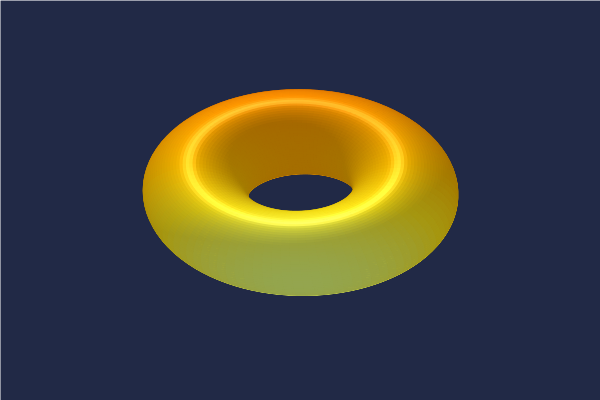
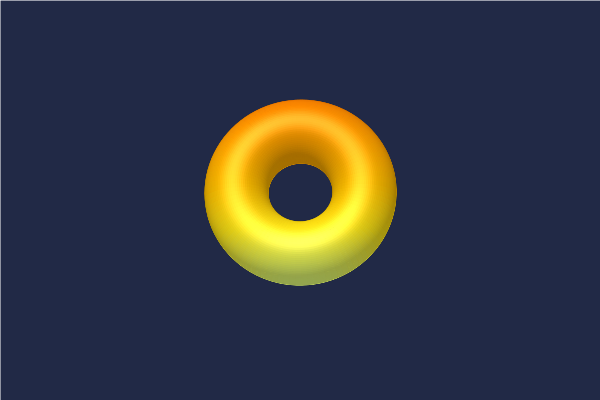
Deploying to master from  @ 984f3977fe52f0a3c2e34ddfdb57993fabd93bd5 🚀

Changed region(s): [[0.24, 0.21, 0.78, 0.75]]

diff --git a/menu2/index.html b/menu2/index.html
@@ -1,7 +1,7 @@
 <!doctype html> <!-- Minimal Mistakes Jekyll Theme 4.16.4 by Michael Rose Copyright 2013-2019 Michael Rose - mademistakes.com | @mmistakes Free for personal and commercial use under the MIT license https://github.com/mmistakes/minimal-mistakes/blob/master/LICENSE --> <html lang=en > <meta charset=UTF-8 > <meta name=viewport  content="width=device-width, initial-scale=1"> <link rel=stylesheet  href="/gnuplot-examples/libs/katex/katex.min.css"> <link rel=stylesheet  href="/gnuplot-examples/libs/highlight/github.min.css"> <link rel=stylesheet  href="/gnuplot-examples/css/franklin.css"> <link rel=stylesheet  href="/gnuplot-examples/css/minimal-mistakes.css"> <link rel=stylesheet  href="/gnuplot-examples/css/adjust.css"> <!--[if IE ]> <style> /* old IE unsupported flexbox fixes */ .greedy-nav .site-title { padding-right: 3em; } .greedy-nav button { position: absolute; top: 0; right: 0; height: 100%; } </style> <![endif]--> <link rel=icon  href="/gnuplot-examples/assets/favicon.png"> <title>3d plots</title> <body class=layout--single > <div class=masthead > <div class=masthead__inner-wrap > <div class=masthead__menu > <nav id=site-nav  class=greedy-nav > <a class=site-title  href="/gnuplot-examples/">@gp & @gsp</a> <ul class=visible-links > <li class=masthead__menu-item ><a href="/gnuplot-examples/gallery/" >Gallery</a> <li class=masthead__menu-item ><a href="/gnuplot-examples/menu1/" >2D plots</a> <li class=masthead__menu-item ><a href="/gnuplot-examples/menu2/" >3D plots</a> <li class=masthead__menu-item ><a href="/gnuplot-examples/menu3/">Feature</a> </ul> <button class="greedy-nav__toggle hidden" type=button > <span class=visually-hidden >Toggle menu</span> <div class=navicon ></div> </button> <ul class="hidden-links hidden"></ul> </nav> </div> </div> </div> <div class=initial-content > <div id=main  role=main > <div class="sidebar sticky"> <div itemscope itemtype="https://schema.org/Person"> <!-- <div class=author__avatar > <img src="/gnuplot-examples/assets/minimal-mistakes/zenobia.png" alt="Septimia Zenobia" itemprop=image > </div> --> <!-- <div class=author__content > <h3 class=author__name  itemprop=name >Lazaro Alonso</h3> <p class=author__bio  itemprop=description >Probably not a commoner.</p> </div> --> <div class=author__urls-wrapper > <button class="btn btn--inverse">Follow</button> <ul class="author__urls social-icons"> <!-- <li itemprop=homeLocation  itemscope itemtype="https://schema.org/Place"> <i class="fas fa-fw fa-map-marker-alt" aria-hidden=true ></i> <span itemprop=name >Tierra</span> --> <li><a href="https://twitter.com/LazarusAlon" rel="nofollow noopener noreferrer"><i class="fab fa-fw fa-twitter-square" aria-hidden=true ></i> Twitter</a> <li><a href="https://github.com/gcalderone/Gnuplot.jl" rel="nofollow noopener noreferrer"><i class="fab fa-fw fa-github" aria-hidden=true ></i> GitHub</a> <a class=up-arrow  href="" data-toggle=tooltip  title="TO TOP"> <i class="fa fa-angle-double-up" style="font-size:36px;color:black" ></i> </a> </ul> </div> </div> </div> <div class=franklin-content > <div class=franklin-toc ><ol><li><a href="#basic_plot_from_data">Basic plot from data</a><li><a href="#3d_from_a_function_wire_and_surface_plots">3D from a function, wire and surface plots</a><li><a href="#countour_plot">Countour plot</a><li><a href="#lorenz_attractor">Lorenz attractor</a><li><a href="#heat_map">Heat map</a><li><a href="#tubes">Tubes</a><li><a href="#spheres">Spheres</a><li><a href="#torus">Torus</a></ol></div> </p> <h2 id=basic_plot_from_data ><a href="#basic_plot_from_data">Basic plot from data</a></h2> <pre><code class="julia hljs"><span class=hljs-keyword >using</span> Gnuplot
 x, y = [<span class=hljs-number >0</span>,<span class=hljs-number >1</span>,<span class=hljs-number >2</span>], [<span class=hljs-number >0</span>,<span class=hljs-number >1</span>,<span class=hljs-number >2</span>]
 Z = [<span class=hljs-number >10</span> <span class=hljs-number >10</span> <span class=hljs-number >10</span>; <span class=hljs-number >10</span> <span class=hljs-number >3</span> <span class=hljs-number >10</span>; <span class=hljs-number >10</span> <span class=hljs-number >2</span> <span class=hljs-number >10</span>]
-<span class=hljs-meta >@gsp</span> x y Z <span class=hljs-string >"w l lc 'red'"</span></code></pre> <img src="/gnuplot-examples/assets/menu2/code/plt3d_ex1.png" alt=""> <p>More options <pre><code class="julia hljs"><span class=hljs-keyword >using</span> Gnuplot
+<span class=hljs-meta >@gsp</span> x y Z <span class=hljs-string >"w l lc 'red'"</span> <span class=hljs-string >"set view equal xyz"</span></code></pre> <img src="/gnuplot-examples/assets/menu2/code/plt3d_ex1.png" alt=""> <p>More options <pre><code class="julia hljs"><span class=hljs-keyword >using</span> Gnuplot
 <span class=hljs-meta >@gsp</span> <span class=hljs-string >"unset key"</span> <span class=hljs-string >"set multi layout 2,2 title 'Multiplot title'"</span> :-
 <span class=hljs-meta >@gsp</span> :- <span class=hljs-number >1</span> x y Z <span class=hljs-string >"w linespoints pt 4 ps 2"</span> <span class=hljs-string >"set view 55, 65"</span> :-
 <span class=hljs-meta >@gsp</span> :- <span class=hljs-number >2</span> x y Z <span class=hljs-string >"w points pt 3 ps 3"</span> <span class=hljs-string >"set view 55, 65"</span> :-
@@ -60,7 +60,7 @@ x = [(<span class=hljs-number >1</span>-<span class=hljs-number >0.1</span>*cos(
 y = [(<span class=hljs-number >1</span>-<span class=hljs-number >0.1</span>*cos(v))*sin(u) <span class=hljs-keyword >for</span> u <span class=hljs-keyword >in</span> U, v <span class=hljs-keyword >in</span> V]
 z = [<span class=hljs-number >0.1</span>*(sin(v) + u/<span class=hljs-number >1.7</span> - <span class=hljs-number >10</span>) <span class=hljs-keyword >for</span> u <span class=hljs-keyword >in</span> U, v <span class=hljs-keyword >in</span> V]
 <span class=hljs-meta >@gsp</span> <span class=hljs-string >"set pm3d depthorder"</span> :-
-<span class=hljs-meta >@gsp</span> :- <span class=hljs-string >"set style fill transparent solid 0.7"</span>
+<span class=hljs-meta >@gsp</span> :- <span class=hljs-string >"set style fill transparent solid 0.7"</span> <span class=hljs-string >"set view equal xyz"</span>
 <span class=hljs-meta >@gsp</span> :- x y z <span class=hljs-string >"w pm3d notit"</span> <span class=hljs-string >"set xyplane -0.05"</span> palette(:ice)</code></pre> <img src="/gnuplot-examples/assets/menu2/code/tubes2.png" alt=""> <h2 id=spheres ><a href="#spheres">Spheres</a></h2> <pre><code class="julia hljs"><span class=hljs-keyword >using</span> Gnuplot
 Θ = LinRange(<span class=hljs-number >0</span>, <span class=hljs-number >2</span><span class=hljs-literal >π</span>, <span class=hljs-number >100</span>) <span class=hljs-comment ># 50</span>
 Φ = LinRange(<span class=hljs-number >0</span>, <span class=hljs-literal >π</span>, <span class=hljs-number >20</span>)
@@ -69,7 +69,7 @@ x = [r * cos(θ) * sin(ϕ)      <span class=hljs-keyword >for</span> θ <span cl
 y = [r * sin(θ) * sin(ϕ)      <span class=hljs-keyword >for</span> θ <span class=hljs-keyword >in</span> Θ, ϕ <span class=hljs-keyword >in</span> Φ]
 z = [r * cos(ϕ) <span class=hljs-keyword >for</span> θ <span class=hljs-keyword >in</span> Θ, ϕ <span class=hljs-keyword >in</span> Φ]
 <span class=hljs-meta >@gsp</span> <span class=hljs-string >"set pm3d depthorder"</span> :-
-<span class=hljs-meta >@gsp</span> :- x y z <span class=hljs-string >"w l"</span></code></pre> <img src="/gnuplot-examples/assets/menu2/code/sphere1.png" alt=""> <pre><code class="julia hljs"><span class=hljs-keyword >using</span> Gnuplot
+<span class=hljs-meta >@gsp</span> :- x y z <span class=hljs-string >"w l"</span> <span class=hljs-string >"set view equal xyz"</span></code></pre> <img src="/gnuplot-examples/assets/menu2/code/sphere1.png" alt=""> <pre><code class="julia hljs"><span class=hljs-keyword >using</span> Gnuplot
 Θ = LinRange(<span class=hljs-number >0</span>, <span class=hljs-number >2</span><span class=hljs-literal >π</span>, <span class=hljs-number >100</span>) <span class=hljs-comment ># 50</span>
 Φ = LinRange(<span class=hljs-number >0</span>, <span class=hljs-literal >π</span>, <span class=hljs-number >20</span>)
 r = <span class=hljs-number >0.8</span>
@@ -77,7 +77,7 @@ x = [r * cos(θ) * sin(ϕ)      <span class=hljs-keyword >for</span> θ <span cl
 y = [r * sin(θ) * sin(ϕ)      <span class=hljs-keyword >for</span> θ <span class=hljs-keyword >in</span> Θ, ϕ <span class=hljs-keyword >in</span> Φ]
 z = [r * cos(ϕ) <span class=hljs-keyword >for</span> θ <span class=hljs-keyword >in</span> Θ, ϕ <span class=hljs-keyword >in</span> Φ]
 <span class=hljs-meta >@gsp</span> <span class=hljs-string >"set pm3d depthorder"</span> :-
-<span class=hljs-meta >@gsp</span> :- <span class=hljs-string >"set style fill transparent solid 0.5"</span>
+<span class=hljs-meta >@gsp</span> :- <span class=hljs-string >"set style fill transparent solid 0.5"</span> <span class=hljs-string >"set view equal xyz"</span>
 <span class=hljs-meta >@gsp</span> :-  x y z <span class=hljs-string >"w pm3d notit"</span> <span class=hljs-string >"set xyplane 0"</span> palette(:viridis)</code></pre> <img src="/gnuplot-examples/assets/menu2/code/sphere2.png" alt=""> <pre><code class="julia hljs"><span class=hljs-keyword >using</span> Gnuplot
 Θ = LinRange(<span class=hljs-number >0</span>, <span class=hljs-number >2</span><span class=hljs-literal >π</span>, <span class=hljs-number >100</span>) <span class=hljs-comment ># 50</span>
 Φ = LinRange(<span class=hljs-number >0</span>, <span class=hljs-literal >π</span>, <span class=hljs-number >100</span>)
@@ -86,7 +86,7 @@ x = [r * cos(θ) * sin(ϕ) <span class=hljs-keyword >for</span> θ <span class=h
 y = [r * sin(θ) * sin(ϕ) <span class=hljs-keyword >for</span> θ <span class=hljs-keyword >in</span> Θ, ϕ <span class=hljs-keyword >in</span> Φ]
 z = [r * cos(ϕ) <span class=hljs-keyword >for</span> θ <span class=hljs-keyword >in</span> Θ, ϕ <span class=hljs-keyword >in</span> Φ]
 <span class=hljs-meta >@gsp</span> <span class=hljs-string >"set pm3d depthorder"</span> :-
-<span class=hljs-meta >@gsp</span> :- <span class=hljs-string >"set style fill solid 1.0 noborder"</span>
+<span class=hljs-meta >@gsp</span> :- <span class=hljs-string >"set style fill solid 1.0 noborder"</span> <span class=hljs-string >"set view equal xyz"</span>
 <span class=hljs-meta >@gsp</span> :- <span class=hljs-string >"set pm3d lighting primary 0.5 specular 0.6"</span>
 <span class=hljs-meta >@gsp</span> :-  x y z <span class=hljs-string >"w pm3d notit"</span> <span class=hljs-string >"set xyplane 0"</span> palette(:viridis)</code></pre> <img src="/gnuplot-examples/assets/menu2/code/sphere3.png" alt=""> <pre><code class="julia hljs"><span class=hljs-keyword >using</span> Gnuplot
 Θ = LinRange(<span class=hljs-number >0</span>, <span class=hljs-number >2</span><span class=hljs-literal >π</span>, <span class=hljs-number >100</span>) <span class=hljs-comment ># 50</span>
@@ -97,7 +97,7 @@ y = [r * sin(θ) * sin(ϕ) <span class=hljs-keyword >for</span> θ <span class=h
 z = [r * cos(ϕ) <span class=hljs-keyword >for</span> θ <span class=hljs-keyword >in</span> Θ, ϕ <span class=hljs-keyword >in</span> Φ]
 
 <span class=hljs-meta >@gsp</span> <span class=hljs-string >"set pm3d depthorder"</span> :-
-<span class=hljs-meta >@gsp</span> :- <span class=hljs-string >"set style fill solid 1.0 noborder"</span>
+<span class=hljs-meta >@gsp</span> :- <span class=hljs-string >"set style fill solid 1.0 noborder"</span> <span class=hljs-string >"set view equal xyz"</span>
 <span class=hljs-meta >@gsp</span> :- <span class=hljs-string >"set format ''"</span>
 <span class=hljs-meta >@gsp</span> :- <span class=hljs-string >"set pm3d lighting primary 0.5 specular 0.6"</span>
 <span class=hljs-meta >@gsp</span> :- <span class=hljs-string >"unset key"</span> <span class=hljs-string >"set multi layout 2,2 title 'Lighting colors'"</span> :-
@@ -136,7 +136,7 @@ bgcolor = bgcp1*bgcp2
 <span class=hljs-meta >@gsp</span> :- <span class=hljs-string >"set style fill solid 1.0"</span>
 <span class=hljs-meta >@gsp</span> :- <span class=hljs-string >"set pm3d lighting primary 0.35 specular 0.2"</span>
 <span class=hljs-meta >@gsp</span> :- x y z <span class=hljs-string >"w pm3d notit"</span> palette(:Wistia) <span class=hljs-string >"set view 108,2"</span>
-<span class=hljs-meta >@gsp</span> :- <span class=hljs-string >"unset border"</span> <span class=hljs-string >"set xyplane 0"</span>
+<span class=hljs-meta >@gsp</span> :- <span class=hljs-string >"unset border"</span> <span class=hljs-string >"set xyplane 0"</span> <span class=hljs-string >"set view equal xyz"</span>
 <span class=hljs-meta >@gsp</span> :- <span class=hljs-string >"unset tics"</span>
 <span class=hljs-meta >@gsp</span> :- <span class=hljs-string >"unset colorbox"</span>
 <span class=hljs-meta >@gsp</span> :- bgcolor</code></pre> <img src="/gnuplot-examples/assets/menu2/code/torus2.png" alt=""> <pre><code class="julia hljs"><span class=hljs-keyword >using</span> Gnuplot
@@ -150,7 +150,7 @@ x = [<span class=hljs-number >1</span> + cos(u) + r * cos(u) * cos(v)  <span cla
 y = [r * sin(v)                        <span class=hljs-keyword >for</span> u <span class=hljs-keyword >in</span> U, v <span class=hljs-keyword >in</span> V]
 z = [sin(u) + r * sin(u) * cos(v)      <span class=hljs-keyword >for</span> u <span class=hljs-keyword >in</span> U, v <span class=hljs-keyword >in</span> V]
 <span class=hljs-meta >@gsp</span> <span class=hljs-string >"set pm3d depthorder"</span>
-<span class=hljs-meta >@gsp</span> :- <span class=hljs-string >"set style fill transparent solid 0.5"</span> 
+<span class=hljs-meta >@gsp</span> :- <span class=hljs-string >"set style fill transparent solid 0.5"</span>
 <span class=hljs-meta >@gsp</span> :- <span class=hljs-string >"set pm3d lighting primary 0.05 specular 0.2"</span>
 <span class=hljs-meta >@gsp</span> :- x y z <span class=hljs-string >"w l palette notit"</span> palette(:dense) <span class=hljs-string >"set view 108,2"</span>
 <span class=hljs-meta >@gsp</span> :- <span class=hljs-string >"unset border"</span> <span class=hljs-string >"set xyplane 0"</span>

diff --git a/css/franklin.css b/css/franklin.css
@@ -1,1 +1,1 @@
-@charset "utf-8"; html{font-family:Helvetica,Arial,sans-serif;font-size:17px;color:#1c1c1c}.franklin-content .row{display:block}.franklin-content .left{float:left;margin-right:15px}.franklin-content .right{float:right}.franklin-content .container img{width:auto;padding-left:0;border-radius:10px}.franklin-content .footnote{position:relative;top:-0.5em;font-size:70%}.franklin-content .page-foot a{text-decoration:none;color:#a6a2a0;text-decoration:underline}.page-foot{font-size:80%;font-family:Arial,serif;color:#a6a2a0;text-align:center;margin-top:6em;border-top:1px solid lightgrey;padding-top:2em;margin-bottom:4em}.franklin-content{position:relative;padding-left:12.5%;padding-right:2.5%;line-height:1.35em}@media (min-width:940px){.franklin-content{width:705px;margin-left:auto;margin-right:auto}}@media (max-width:480px){.franklin-content{padding-left:6%;padding-right:6%}}.franklin-content h1{font-size:24px}.franklin-content h2{font-size:22px}.franklin-content h3{font-size:20px}.franklin-content h1,h2,h3,h4,h5,h6{text-align:left}.franklin-content h1{padding-bottom:.5em;border-bottom:3px double lightgrey;margin-top:1.5em;margin-bottom:1em}.franklin-content h2{padding-bottom:.3em;border-bottom:1px solid lightgrey;margin-top:2em;margin-bottom:1em}.franklin-content h1 a{color:inherit}.franklin-content h1 a:hover{text-decoration:none}.franklin-content h2 a{color:inherit}.franklin-content h2 a:hover{text-decoration:none}.franklin-content h3 a{color:inherit}.franklin-content h3 a:hover{text-decoration:none}.franklin-content h4 a{color:inherit}.franklin-content h4 a:hover{text-decoration:none}.franklin-content h5 a{color:inherit}.franklin-content h5 a:hover{text-decoration:none}.franklin-content h6 a{color:inherit}.franklin-content h6 a:hover{text-decoration:none}.franklin-content table{margin-left:auto;margin-right:auto;border-collapse:collapse;text-align:center}.franklin-content th,td{padding:10px;border:1px solid black}.franklin-content blockquote{background:#eee;border-left:7px solid #a8a8a8;margin:1.5em 10px;padding:.5em 10px;font-style:italic}.franklin-content blockquote p{display:inline}.franklin-content li p{margin:10px 0}.franklin-content a{color:#004de6;text-decoration:none}.franklin-content a:hover{text-decoration:underline}.franklin-content .eqref a{color:green}.franklin-content .bibref a{color:green}.franklin-content sup{font-size:70%;vertical-align:super;line-height:0}.franklin-content table.fndef{margin:0;margin-bottom:10px}.franklin-content .fndef tr,td{padding:0;border:0;text-align:left}.franklin-content .fndef tr{border-left:2px solid lightgray}.franklin-content .fndef td.fndef-backref{vertical-align:top;font-size:70%;padding-left:5px}.franklin-content .fndef td.fndef-content{font-size:80%;padding-left:10px}.franklin-content img{width:75%;text-align:center;padding-left:15%}.franklin-content img.one{width:100%;text-align:center;padding-left:5%}.franklin-content .img-small img{width:90%;text-align:center;padding-left:10%}body{counter-reset:eqnum}.katex{font-size:1em !important}.katex-display .katex{display:inline-block}.katex-display::after{counter-increment:eqnum;content:"(" counter(eqnum) ")";position:relative;float:right;padding-right:5px}code{background-color:rgba(27,31,35,0.05);padding:.1em .2em;border-radius:2px;font-size:90%}.hljs{font-size:90%;line-height:1.35em;border-radius:10px}.hljs-meta,.hljs-metas,.hljs-metap{font-weight:bold}.hljs-meta{color:#19b333}.hljs-metas{color:red}.hljs-metap{color:#3383e7}.franklin-content .colbox-blue{background-color:#EEF3F5;padding-top:5px;padding-right:10px;padding-left:10px;padding-bottom:5px;margin-left:5px;margin-top:5px;margin-bottom:5px;border-radius:0 10px 10px 0;border-left:5px solid #4C9CF1}
+@charset "utf-8";html{font-family:Helvetica,Arial,sans-serif;font-size:17px;color:#1c1c1c}.franklin-content .row{display:block}.franklin-content .left{float:left;margin-right:15px}.franklin-content .right{float:right}.franklin-content .container img{width:auto;padding-left:0;border-radius:10px}.franklin-content .footnote{position:relative;top:-0.5em;font-size:70%}.franklin-content .page-foot a{text-decoration:none;color:#a6a2a0;text-decoration:underline}.page-foot{font-size:80%;font-family:Arial,serif;color:#a6a2a0;text-align:center;margin-top:6em;border-top:1px solid lightgrey;padding-top:2em;margin-bottom:4em}.franklin-content{position:relative;padding-left:12.5%;padding-right:2.5%;line-height:1.35em}@media (min-width:940px){.franklin-content{width:705px;margin-left:auto;margin-right:auto}}@media (max-width:480px){.franklin-content{padding-left:6%;padding-right:6%}}.franklin-content h1{font-size:24px}.franklin-content h2{font-size:22px}.franklin-content h3{font-size:20px}.franklin-content h1,h2,h3,h4,h5,h6{text-align:left}.franklin-content h1{padding-bottom:.5em;border-bottom:3px double lightgrey;margin-top:1.5em;margin-bottom:1em}.franklin-content h2{padding-bottom:.3em;border-bottom:1px solid lightgrey;margin-top:2em;margin-bottom:1em}.franklin-content h1 a{color:inherit}.franklin-content h1 a:hover{text-decoration:none}.franklin-content h2 a{color:inherit}.franklin-content h2 a:hover{text-decoration:none}.franklin-content h3 a{color:inherit}.franklin-content h3 a:hover{text-decoration:none}.franklin-content h4 a{color:inherit}.franklin-content h4 a:hover{text-decoration:none}.franklin-content h5 a{color:inherit}.franklin-content h5 a:hover{text-decoration:none}.franklin-content h6 a{color:inherit}.franklin-content h6 a:hover{text-decoration:none}.franklin-content table{margin-left:auto;margin-right:auto;border-collapse:collapse;text-align:center}.franklin-content th,td{padding:10px;border:1px solid black}.franklin-content blockquote{background:#eee;border-left:7px solid #a8a8a8;margin:1.5em 10px;padding:.5em 10px;font-style:italic}.franklin-content blockquote p{display:inline}.franklin-content li p{margin:10px 0}.franklin-content a{color:#004de6;text-decoration:none}.franklin-content a:hover{text-decoration:underline}.franklin-content .eqref a{color:green}.franklin-content .bibref a{color:green}.franklin-content sup{font-size:70%;vertical-align:super;line-height:0}.franklin-content table.fndef{margin:0;margin-bottom:10px}.franklin-content .fndef tr,td{padding:0;border:0;text-align:left}.franklin-content .fndef tr{border-left:2px solid lightgray}.franklin-content .fndef td.fndef-backref{vertical-align:top;font-size:70%;padding-left:5px}.franklin-content .fndef td.fndef-content{font-size:80%;padding-left:10px}.franklin-content img{width:75%;text-align:center;padding-left:15%}.franklin-content img.one{width:100%;text-align:center;padding-left:5%}.franklin-content .img-small img{width:90%;text-align:center;padding-left:10%}body{counter-reset:eqnum}.katex{font-size:1em !important}.katex-display .katex{display:inline-block}.katex-display::after{counter-increment:eqnum;content:"(" counter(eqnum) ")";position:relative;float:right;padding-right:5px}code{background-color:rgba(27,31,35,0.05);padding:.1em .2em;border-radius:2px;font-size:90%}.hljs{font-size:90%;line-height:1.35em;border-radius:10px}.hljs-meta,.hljs-metas,.hljs-metap{font-weight:bold}.hljs-meta{color:#19b333}.hljs-metas{color:red}.hljs-metap{color:#3383e7}.franklin-content .colbox-blue{background-color:#EEF3F5;padding-top:5px;padding-right:10px;padding-left:10px;padding-bottom:5px;margin-left:5px;margin-top:5px;margin-bottom:5px;border-radius:0 10px 10px 0;border-left:5px solid #4C9CF1}

diff --git a/menu3/index.html b/menu3/index.html
@@ -123,11 +123,8 @@ tempo = sol.t
 <span class=hljs-comment ># animation</span>
 <span class=hljs-meta >@gsp</span> :- <span class=hljs-string >"i=2"</span>
 <span class=hljs-meta >@gsp</span> :- x y z tempo <span class=hljs-string >"every ::1::i w l notit lc palette"</span> :-
-frame = <span class=hljs-number >2</span>
-<span class=hljs-keyword >for</span> i <span class=hljs-keyword >in</span> <span class=hljs-number >2</span>:<span class=hljs-number >40</span>:length(x)
-  <span class=hljs-keyword >global</span> frame
-  <span class=hljs-meta >@gsp</span> :- frame <span class=hljs-string >"i=<span class=hljs-variable >$i</span>"</span> <span class=hljs-string >"replot"</span> :-
-  frame += <span class=hljs-number >1</span>
+<span class=hljs-keyword >for</span> frame <span class=hljs-keyword >in</span> <span class=hljs-number >2</span>:<span class=hljs-number >40</span>:length(x)
+  <span class=hljs-meta >@gsp</span> :- frame <span class=hljs-string >"i=<span class=hljs-variable >$frame</span>"</span> <span class=hljs-string >"replot"</span> :-
 <span class=hljs-keyword >end</span>
 <span class=hljs-meta >@gsp</span> <span class=hljs-comment ># display animation</span>
 save(term=<span class=hljs-string >"gif animate size 1000,800 delay 1"</span>, output=<span class=hljs-string >"lorenzAnim.gif"</span>)</code></pre> <img src="/gnuplot-examples/assets/menu3/code/lorenzAnim.gif" alt=""> <div class=page-foot > <div class=copyright > &copy; Lazaro Alonso. Last modified: April 10, 2020. Website built with <a href="https://github.com/tlienart/Franklin.jl">Franklin.jl</a>. </div> </div> </div> </div> </div> <div class=page__footer > <footer> <div class=page__footer-follow > <ul class=social-icons > <!-- <li><strong>Follow:</strong> <li><a href="https://twitter.com/mmistakes" rel="nofollow noopener noreferrer"><i class="fab fa-fw fa-twitter-square" aria-hidden=true ></i> Twitter</a> --> <li><a href="https://github.com/gcalderone/Gnuplot.jl" rel="nofollow noopener noreferrer"><i class="fab fa-fw fa-github" aria-hidden=true ></i> GitHub</a> <a class=up-arrow  href="" data-toggle=tooltip  title="TO TOP"> <i class="fa fa-angle-double-up" style="font-size:36px;color:black" ></i> </a> </ul> </div> <div class=page__footer-copyright >&copy; Lazaro Alonso. Powered by <a href="https://github.com/tlienart/Franklin.jl">Franklin</a> &amp; <a href="https://mademistakes.com/work/minimal-mistakes-jekyll-theme/" rel=nofollow >Minimal Mistakes</a>. </div> </footer> </div> <script src="/gnuplot-examples/libs/minimal-mistakes/main.min.js"></script> <script defer src="https://use.fontawesome.com/releases/v5.8.2/js/all.js" integrity="sha384-DJ25uNYET2XCl5ZF++U8eNxPWqcKohUUBUpKGlNLMchM7q4Wjg2CUpjHLaL8yYPH" crossorigin=anonymous ></script>
